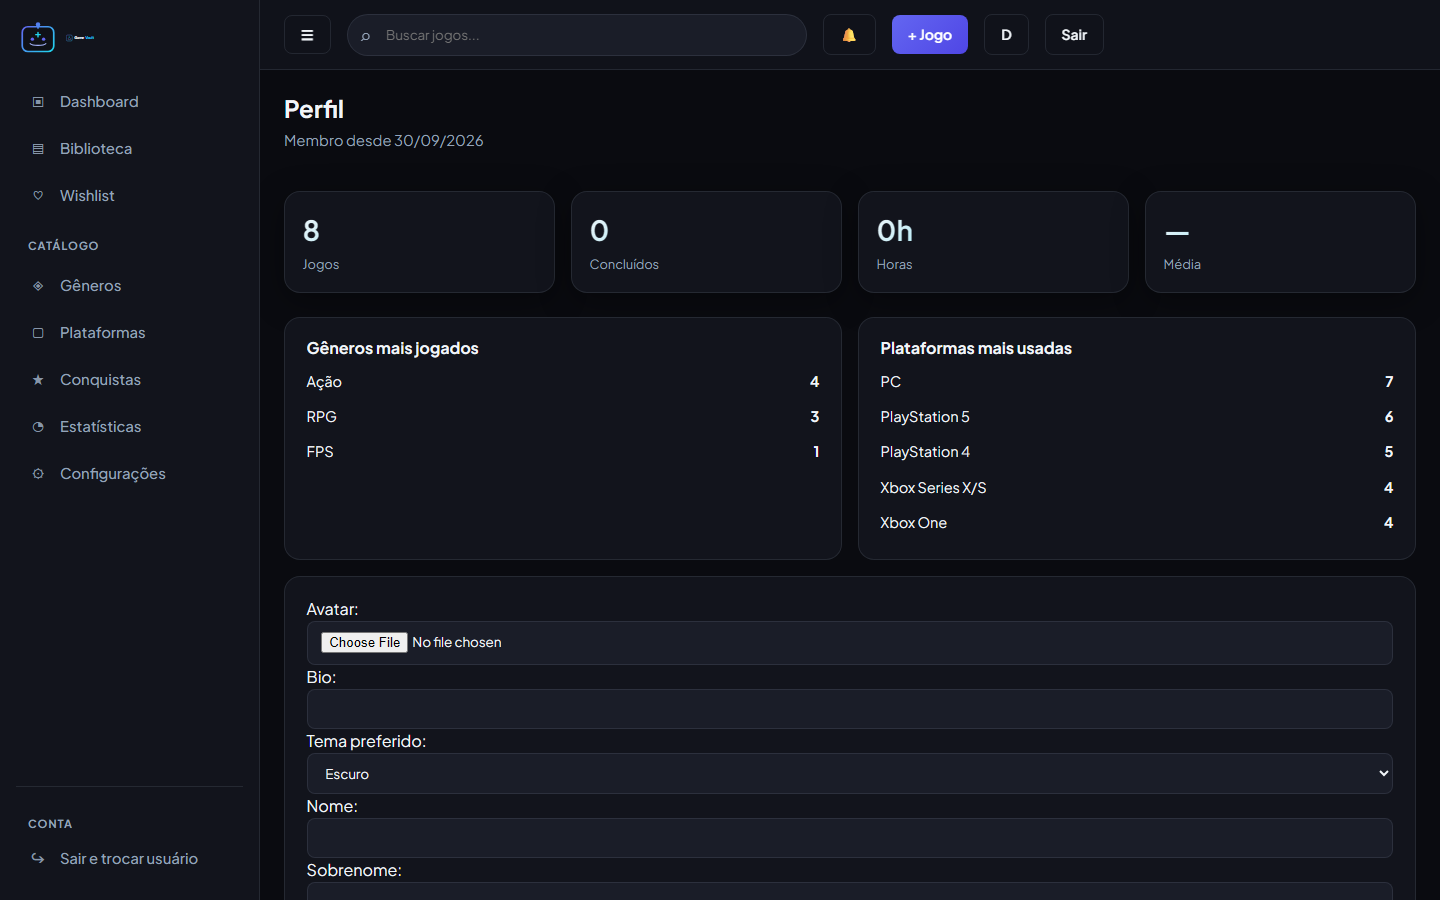
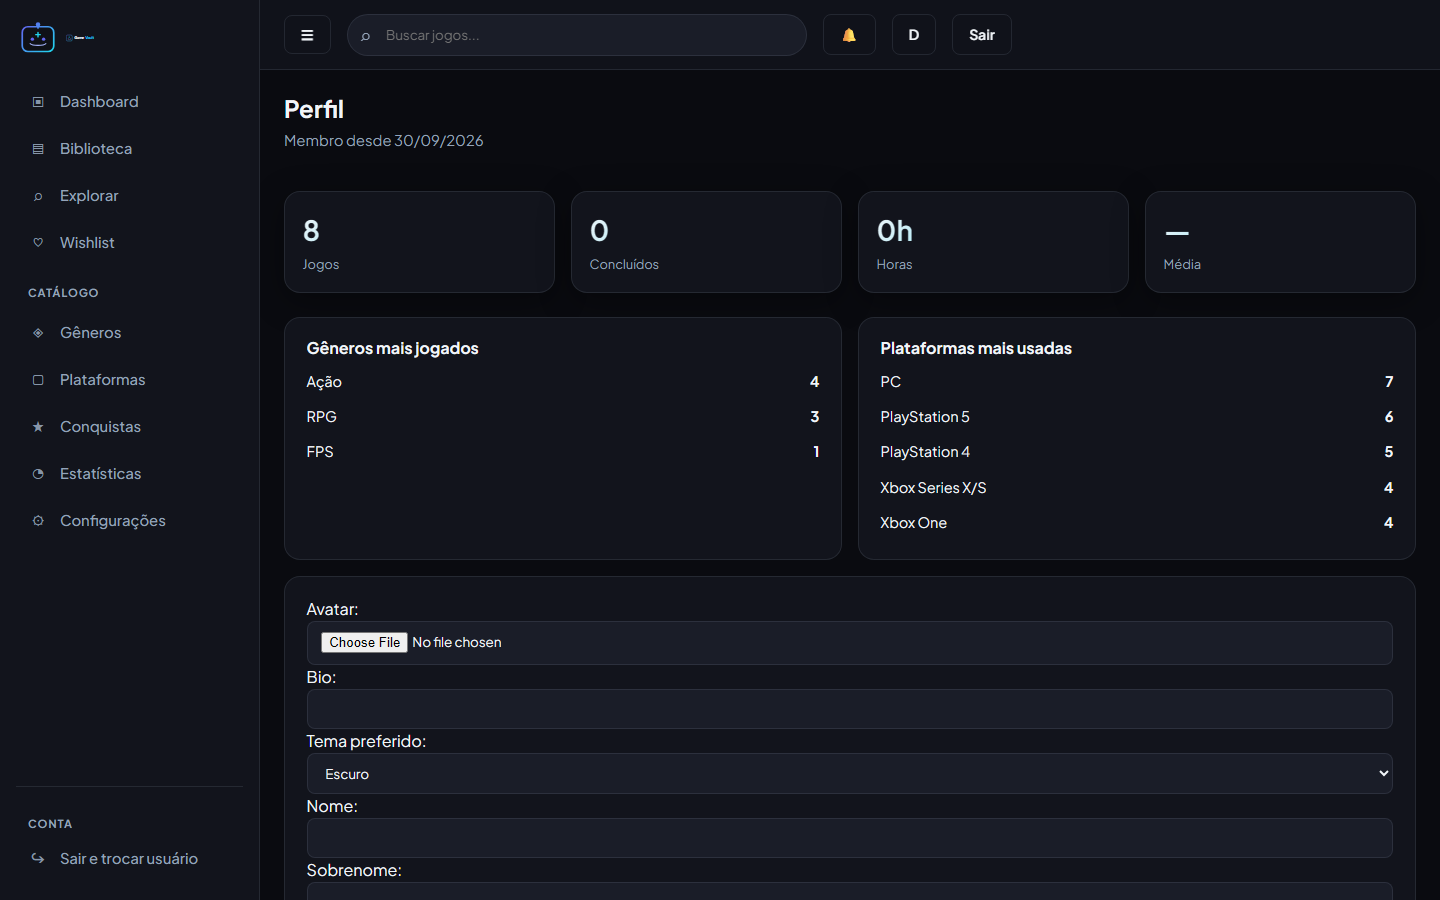
docs: alinhar galeria do README com capturas atuais
Título acima de cada imagem, nova tela Explorar e script regerando PNGs com demo e staff.

diff --git a/scripts/capture_screenshots.py b/scripts/capture_screenshots.py
@@ -11,7 +11,7 @@ OUT = BASE / "docs" / "assets" / "telas"
 BASE_URL = "http://127.0.0.1:8765"
 
 
-def _ensure_demo_user():
+def _ensure_users_and_library():
     import os
     import sys
 
@@ -22,9 +22,61 @@ def _ensure_demo_user():
     django.setup()
     from django.contrib.auth import get_user_model
 
+    from jogos.models import EntradaBiblioteca, Jogo, StatusJogo
+
     User = get_user_model()
     if not User.objects.filter(username="demo").exists():
-        User.objects.create_user(username="demo", password="demo123456", email="demo@gamevault.local")
+        User.objects.create_user(
+            username="demo", password="demo123456", email="demo@gamevault.local"
+        )
+    demo = User.objects.get(username="demo")
+    staff, created = User.objects.get_or_create(
+        username="staff_demo",
+        defaults={"email": "staff@gamevault.local", "is_staff": True},
+    )
+    if created or not staff.is_staff:
+        staff.is_staff = True
+        staff.set_password("demo123456")
+        staff.save()
+
+    for jogo in Jogo.objects.filter(usuario__isnull=True):
+        EntradaBiblioteca.objects.get_or_create(
+            usuario=demo,
+            jogo=jogo,
+            defaults={"status": StatusJogo.BACKLOG},
+        )
+
+
+def _logout(page) -> None:
+    if page.locator(".gv-topbar").get_by_role("button", name="Sair").count():
+        page.locator(".gv-topbar").get_by_role("button", name="Sair").click()
+        page.wait_for_load_state("networkidle")
+        page.wait_for_timeout(400)
+
+
+def _login(page, username: str) -> None:
+    _logout(page)
+    page.goto(f"{BASE_URL}/conta/login/")
+    page.fill('input[name="username"]', username)
+    page.fill('input[name="password"]', "demo123456")
+    page.get_by_role("button", name="Entrar").click()
+    page.wait_for_load_state("networkidle")
+    page.wait_for_timeout(500)
+
+
+def _shot(page, filename: str, path: str, *, viewport_only: bool = True) -> None:
+    page.goto(f"{BASE_URL}{path}")
+    page.wait_for_load_state("networkidle")
+    page.wait_for_timeout(600)
+    if path not in ("/", "/conta/login/"):
+        page.locator(".gv-topbar").get_by_role("button", name="Sair").wait_for(
+            state="visible", timeout=8000
+        )
+    page.screenshot(
+        path=str(OUT / filename),
+        full_page=not viewport_only,
+    )
+    print("OK", filename)
 
 
 def main():
@@ -35,40 +87,20 @@ def main():
 
     OUT.mkdir(parents=True, exist_ok=True)
 
-    public_pages = [
-        ("01-landing.png", "/"),
-        ("02-login.png", "/conta/login/"),
-    ]
-    auth_pages = [
-        ("04-dashboard.png", "/dashboard/"),
-        ("05-biblioteca.png", "/biblioteca/"),
-        ("07-formulario.png", "/novo/"),
-        ("08-wishlist.png", "/lista-desejos/"),
-        ("10-estatisticas.png", "/estatisticas/"),
-        ("11-catalogo-generos.png", "/generos/"),
-        ("09-perfil.png", "/conta/perfil/"),
-        ("12-configuracoes.png", "/configuracoes/"),
-    ]
-
     with sync_playwright() as p:
         browser = p.chromium.launch()
         page = browser.new_page(viewport={"width": 1440, "height": 900})
 
-        for name, path in public_pages:
-            page.goto(f"{BASE_URL}{path}")
-            page.wait_for_timeout(700)
-            page.screenshot(path=str(OUT / name), full_page=True)
-            print("OK", name)
+        _shot(page, "01-landing.png", "/", viewport_only=False)
+        _shot(page, "02-login.png", "/conta/login/", viewport_only=False)
 
-        page.goto(f"{BASE_URL}/conta/login/")
-        page.fill('input[name="username"]', "demo")
-        page.fill('input[name="password"]', "demo123456")
-        page.get_by_role("button", name="Entrar").click()
-        page.wait_for_load_state("networkidle")
-        page.wait_for_timeout(500)
+        _login(page, "demo")
+        _shot(page, "04-dashboard.png", "/dashboard/")
+        _shot(page, "13-explorar.png", "/explorar/")
+        _shot(page, "05-biblioteca.png", "/biblioteca/")
 
         page.goto(f"{BASE_URL}/biblioteca/")
-        page.wait_for_timeout(600)
+        page.wait_for_timeout(500)
         link = page.locator("a[href*='/jogo/']").first
         if link.count():
             href = link.get_attribute("href") or ""
@@ -76,34 +108,23 @@ def main():
             page.goto(url)
             page.wait_for_load_state("networkidle")
             page.wait_for_timeout(500)
-            page.locator(".gv-topbar").get_by_role("button", name="Sair").wait_for(
-                state="visible", timeout=8000
-            )
             page.screenshot(path=str(OUT / "06-detalhe.png"), full_page=False)
             print("OK", "06-detalhe.png")
         else:
-            print("SKIP 06-detalhe.png (sem jogos na biblioteca demo)")
+            print("SKIP 06-detalhe.png")
 
-        def shot_authenticated(name: str, path: str) -> None:
-            page.goto(f"{BASE_URL}{path}")
-            page.wait_for_load_state("networkidle")
-            page.wait_for_timeout(500)
-            page.locator(".gv-sidebar-footer").get_by_role(
-                "button", name="Sair e trocar usuário"
-            ).wait_for(state="visible", timeout=8000)
-            page.locator(".gv-topbar").get_by_role("button", name="Sair").wait_for(
-                state="visible", timeout=8000
-            )
-            # Viewport (não full_page) mantém sidebar + botão Sair legíveis no README.
-            page.screenshot(path=str(OUT / name), full_page=False)
-            print("OK", name)
+        _shot(page, "08-wishlist.png", "/lista-desejos/")
+        _shot(page, "10-estatisticas.png", "/estatisticas/")
+        _shot(page, "09-perfil.png", "/conta/perfil/")
+        _shot(page, "12-configuracoes.png", "/configuracoes/")
+        _shot(page, "11-catalogo-generos.png", "/generos/")
 
-        for name, path in auth_pages:
-            shot_authenticated(name, path)
+        _login(page, "staff_demo")
+        _shot(page, "07-formulario.png", "/novo/")
 
         browser.close()
 
 
 if __name__ == "__main__":
-    _ensure_demo_user()
+    _ensure_users_and_library()
     main()

diff --git a/README.md b/README.md
@@ -62,22 +62,34 @@ Cadastro de jogos no catálogo é **manual** (sem API externa).
 
 ## As telas
 
-Interface **v2** (sidebar, dashboard, biblioteca, explorar, catálogo e estatísticas).
+Interface **v2.1** — cada legenda corresponde à imagem **logo abaixo** (mesma coluna).
 
-| | |
-|---|---|
-| ![Landing](docs/assets/telas/01-landing.png) | ![Login](docs/assets/telas/02-login.png) |
-| **Landing** | **Login** |
-| ![Dashboard](docs/assets/telas/04-dashboard.png) | ![Biblioteca](docs/assets/telas/05-biblioteca.png) |
-| **Dashboard** | **Biblioteca** |
-| ![Detalhe](docs/assets/telas/06-detalhe.png) | ![Novo jogo](docs/assets/telas/07-formulario.png) |
-| **Detalhe do jogo** | **Cadastro de jogo (staff)** |
-| ![Estatísticas](docs/assets/telas/10-estatisticas.png) | ![Catálogo gêneros](docs/assets/telas/11-catalogo-generos.png) |
-| **Estatísticas** | **Catálogo — gêneros** |
-| ![Wishlist](docs/assets/telas/08-wishlist.png) | ![Perfil](docs/assets/telas/09-perfil.png) |
-| **Wishlist** | **Perfil** |
-| ![Configurações](docs/assets/telas/12-configuracoes.png) | |
-| **Configurações e sessão** | |
+<table>
+  <tr>
+    <td align="center" width="50%"><strong>Landing</strong><br><img src="docs/assets/telas/01-landing.png" alt="Landing page pública" width="100%"></td>
+    <td align="center" width="50%"><strong>Login</strong><br><img src="docs/assets/telas/02-login.png" alt="Tela de login" width="100%"></td>
+  </tr>
+  <tr>
+    <td align="center"><strong>Dashboard</strong> (usuário)<br><img src="docs/assets/telas/04-dashboard.png" alt="Dashboard pessoal" width="100%"></td>
+    <td align="center"><strong>Explorar catálogo</strong><br><img src="docs/assets/telas/13-explorar.png" alt="Explorar jogos do catálogo" width="100%"></td>
+  </tr>
+  <tr>
+    <td align="center"><strong>Minha biblioteca</strong><br><img src="docs/assets/telas/05-biblioteca.png" alt="Biblioteca pessoal" width="100%"></td>
+    <td align="center"><strong>Detalhe do jogo</strong><br><img src="docs/assets/telas/06-detalhe.png" alt="Detalhe de um jogo" width="100%"></td>
+  </tr>
+  <tr>
+    <td align="center"><strong>Cadastro de jogo</strong> (staff)<br><img src="docs/assets/telas/07-formulario.png" alt="Formulário novo jogo" width="100%"></td>
+    <td align="center"><strong>Gêneros</strong> (lista)<br><img src="docs/assets/telas/11-catalogo-generos.png" alt="Lista de gêneros" width="100%"></td>
+  </tr>
+  <tr>
+    <td align="center"><strong>Estatísticas</strong><br><img src="docs/assets/telas/10-estatisticas.png" alt="Gráficos e estatísticas" width="100%"></td>
+    <td align="center"><strong>Wishlist</strong><br><img src="docs/assets/telas/08-wishlist.png" alt="Lista de desejos" width="100%"></td>
+  </tr>
+  <tr>
+    <td align="center"><strong>Perfil</strong><br><img src="docs/assets/telas/09-perfil.png" alt="Perfil do usuário" width="100%"></td>
+    <td align="center"><strong>Configurações e sessão</strong><br><img src="docs/assets/telas/12-configuracoes.png" alt="Configurações e sair" width="100%"></td>
+  </tr>
+</table>
 
 Para regerar as capturas: [`docs/assets/telas/CAPTURAS.md`](docs/assets/telas/CAPTURAS.md) ou `python scripts/capture_screenshots.py` (com `runserver` na porta **8765**).
 

diff --git a/docs/assets/telas/CAPTURAS.md b/docs/assets/telas/CAPTURAS.md
@@ -7,9 +7,10 @@
 | `01-landing.png` | `/` | Landing pública |
 | `02-login.png` | `/conta/login/` | Login |
 | `04-dashboard.png` | `/dashboard/` | Dashboard acadêmico |
-| `05-biblioteca.png` | `/biblioteca/` | Biblioteca (grade + filtros) |
+| `05-biblioteca.png` | `/biblioteca/` | Minha biblioteca (entradas do usuário) |
 | `06-detalhe.png` | `/jogo/<id>/` | Detalhe do jogo |
-| `07-formulario.png` | `/novo/` | Cadastro de jogo |
+| `07-formulario.png` | `/novo/` | Cadastro de jogo (**staff_demo**) |
+| `13-explorar.png` | `/explorar/` | Explorar catálogo global |
 | `08-wishlist.png` | `/lista-desejos/` | Wishlist |
 | `09-perfil.png` | `/conta/perfil/` | Perfil |
 | `10-estatisticas.png` | `/estatisticas/` | Estatísticas + gráficos |
@@ -34,7 +35,7 @@ python -m playwright install chromium
 python scripts/capture_screenshots.py
 ```
 
-Conta usada pelo script: **`demo`** / **`demo123456`** (criada automaticamente se não existir). As telas autenticadas mostram a UI atual (incl. **Sair** na sidebar/topbar).
+Contas: **`demo`** / **`demo123456`** (usuário comum; biblioteca preenchida com jogos do catálogo) e **`staff_demo`** / **`demo123456`** (só para `07-formulario.png`).
 
 ## Manual
 
